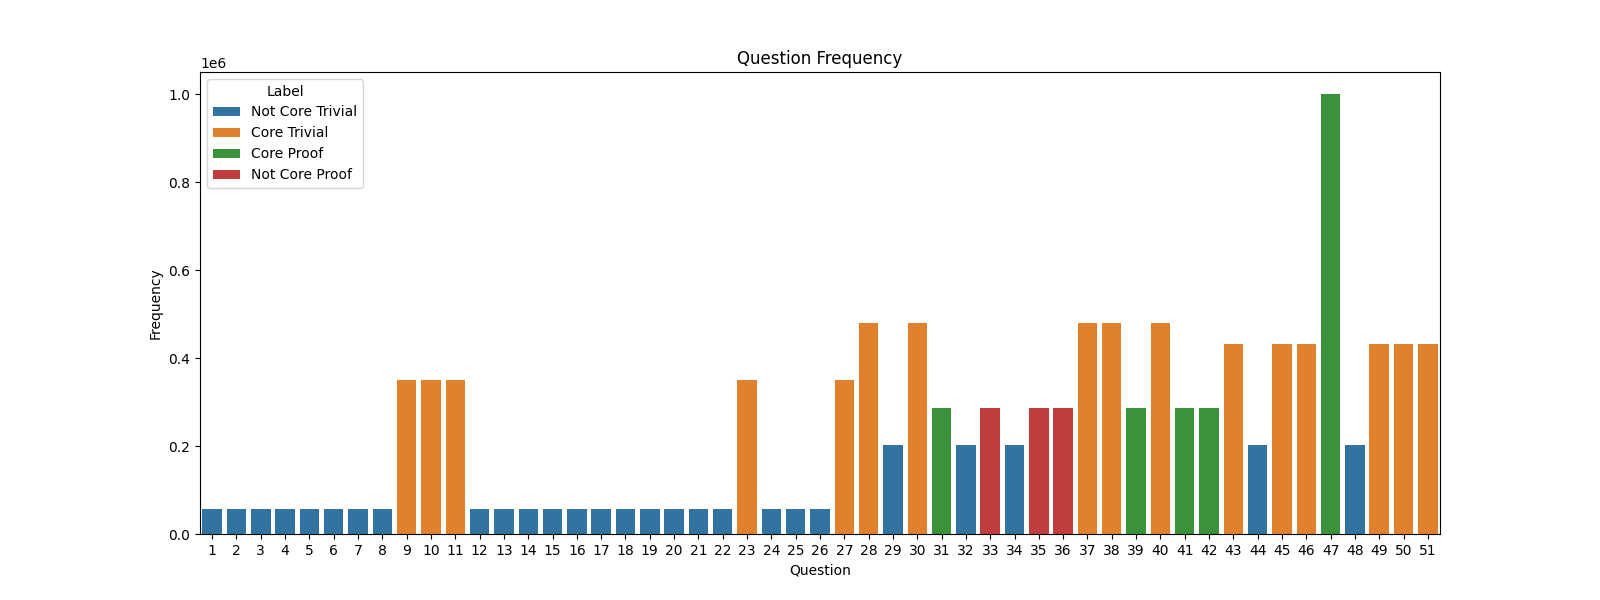
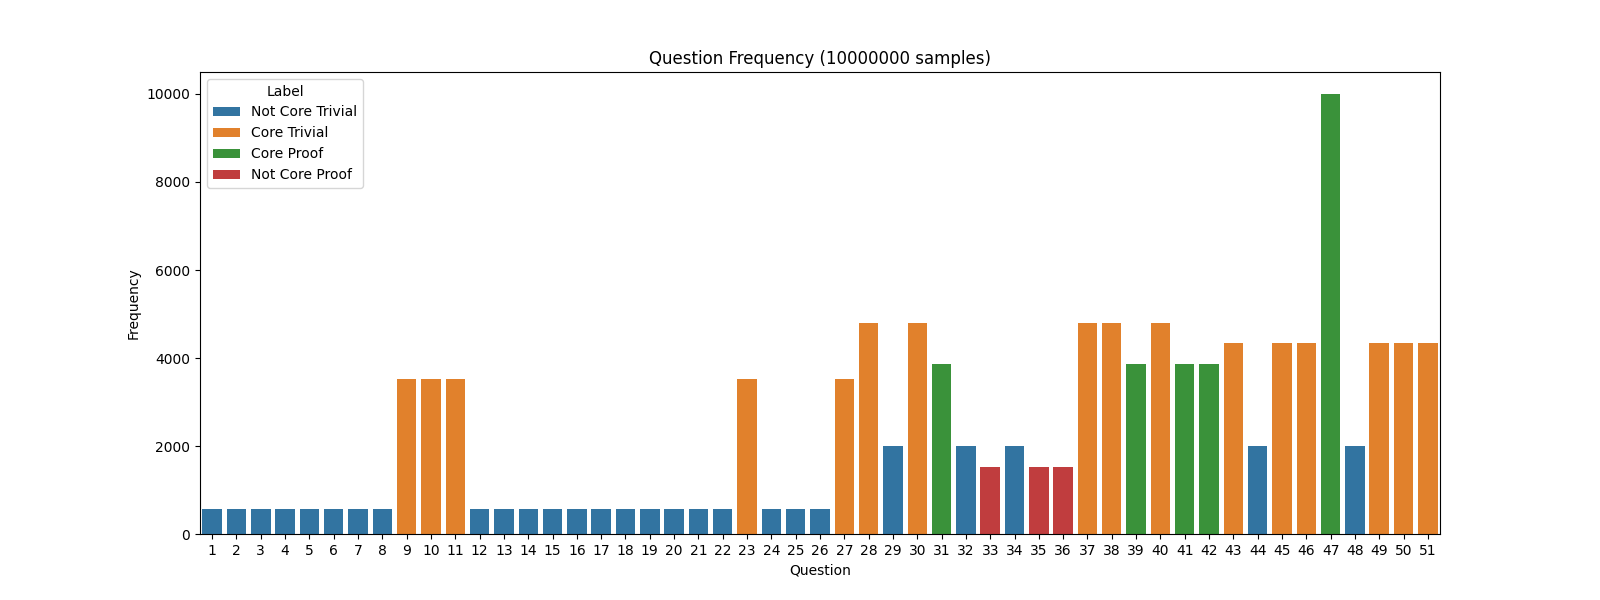
final

diff --git a/main.py b/main.py
@@ -11,26 +11,36 @@ class Test:
         self.part_one_trivial_core = [9, 10, 11, 23, 27]
         self.part_two_trivial_core = [28, 30, 37, 38, 40]
         self.part_three_trivial_core = [43, 45, 46, 49, 50, 51]
-        self.part_one_proof_core = []
-        self.part_two_proof_core = [31, 39, 41, 42]
-        self.part_three_proof_core = [47]
         self.part_one_trivial = list(range(1, 28))
         self.part_two_trivial = [28, 29, 30, 32, 34, 37, 38, 40]
         self.part_three_trivial = [43, 44, 45, 46, 48, 49, 50, 51]
+        
+        self.part_one_proof_core = []
+        self.part_two_proof_core = [31, 39, 41, 42]
+        self.part_three_proof_core = [47]
         self.part_one_proof = []
         self.part_two_proof = [31, 33, 35, 36, 39, 41, 42]
         self.part_three_proof = [47]
 
     def pick_proofs(self):
-        sections = [self.part_two_proof, self.part_three_proof, self.part_two_proof]
+        sections = [
+            (self.part_two_proof, self.part_two_proof_core),
+            (self.part_two_proof, self.part_two_proof_core),
+            (self.part_three_proof, self.part_three_proof_core),
+        ]
         questions = []
         for part in sections:
-            if random.choice([True, False]):
-                questions.append(random.choice(part))
-                part.remove(questions[-1])
-            else:
-                questions.append(random.choice(part))
-                part.remove(questions[-1])
+            while True:
+                try:
+                    group = random.choice(part)
+                    choice = random.choice(group)
+                    if choice not in questions:
+                        questions.append(choice)
+                        break
+                except:
+                    pass
+            
+        assert len(questions) == 3
         return questions
 
     def pick_trivials(self):
@@ -51,14 +61,33 @@ class Test:
                 except:
                     pass
 
+        assert len(questions) == 9
         return questions
     
 def plot():
     
     results = np.zeros(52)
-    for i in range(1000000):
-        test = Test()
-        questions = test.pick_proofs() + test.pick_trivials()
+    origin = Test()
+    samples = 10000000
+    for i in range(samples):
+        acceptable = False
+        while not acceptable:
+            test = Test()
+            questions = test.pick_proofs() + test.pick_trivials()
+            
+            # Check how many questions are core
+            core = 0
+            for question in questions:
+                if question in origin.part_one_trivial_core + origin.part_two_trivial_core + origin.part_three_trivial_core:
+                    core += 1
+                if question in origin.part_one_proof_core + origin.part_two_proof_core + origin.part_three_proof_core:
+                    core += 1
+            
+            # Check if there are at least half core questions
+            if core >= 6:
+                acceptable = True
+        
+        
         for question in questions:
             results[question] += 1
             
@@ -94,13 +123,13 @@ def plot():
     # Plot
     plt.figure(figsize=(16, 6))
     sns.barplot(x=df.index, y=df[0], hue=df["Label"])
-    plt.title("Question Frequency")
+    plt.title(f"Question Frequency ({samples} samples)")
     plt.xlabel("Question")
     plt.ylabel("Frequency")
     plt.savefig("question_frequency.png")
     
     
 if __name__ == "__main__":
-
-    print(Test().pick_proofs())
-    print(Test().pick_trivials())
+    plot()
+    # print(Test().pick_proofs())
+    # print(Test().pick_trivials())
